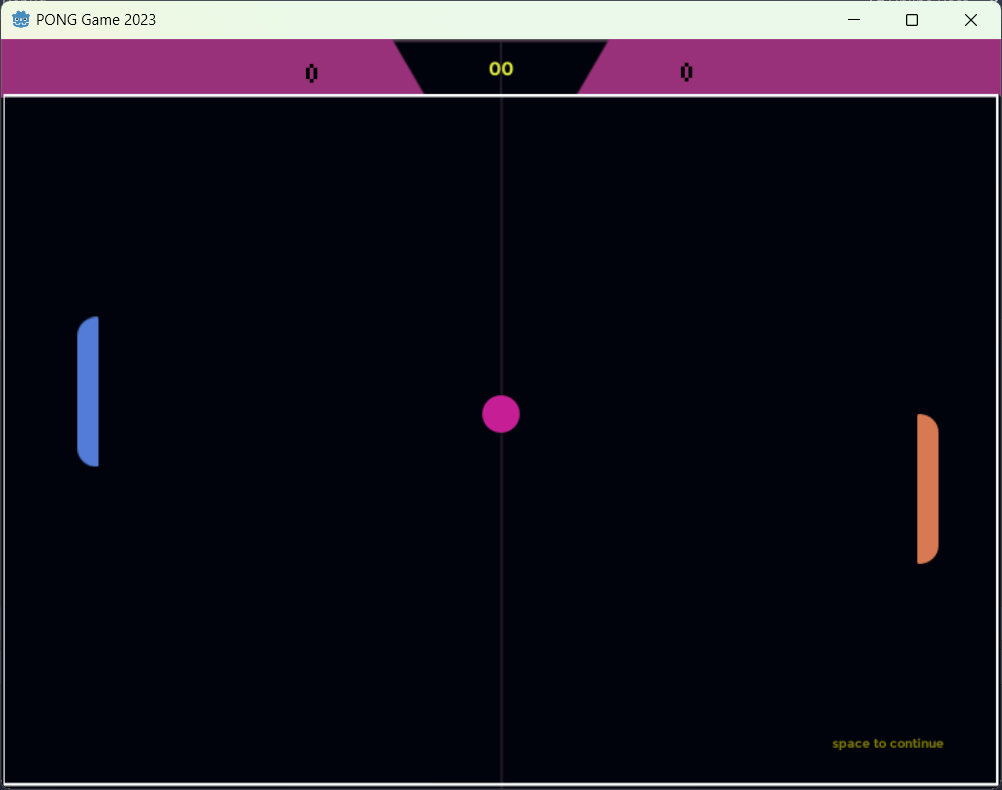
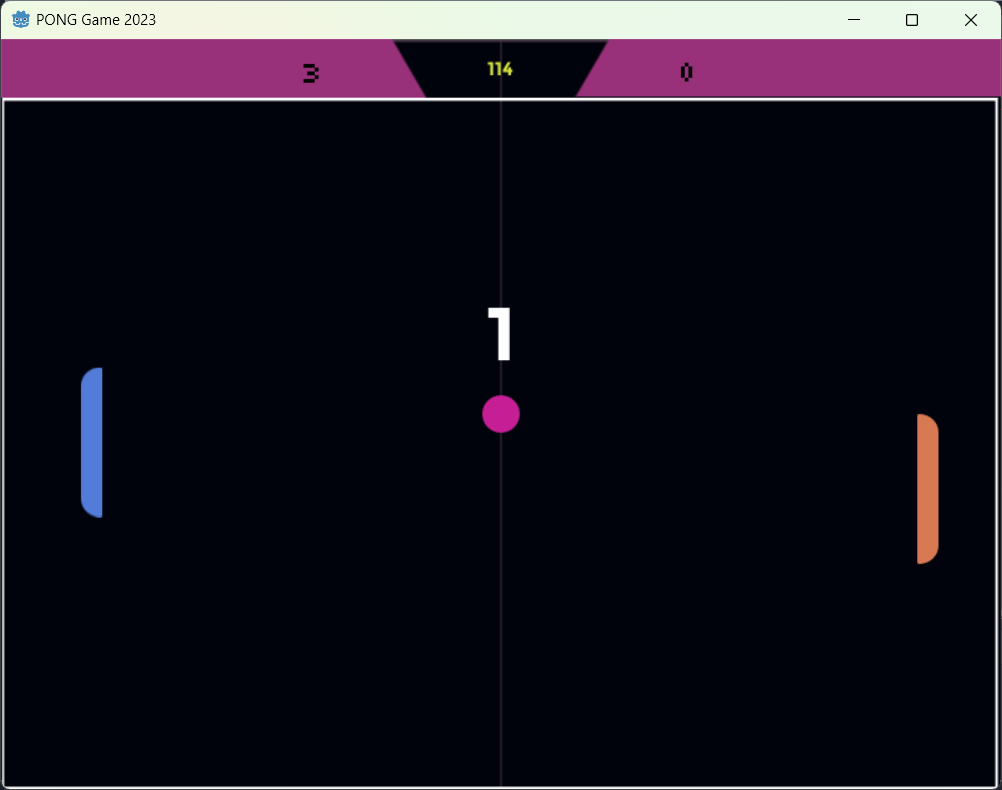
update

diff --git a/README.md b/README.md
@@ -9,3 +9,7 @@ Assets used:
 
 <img src="screen-shot.png" width=50% height=50%>
 
+update :
+- sound added
+- timeout for game resuming
+
